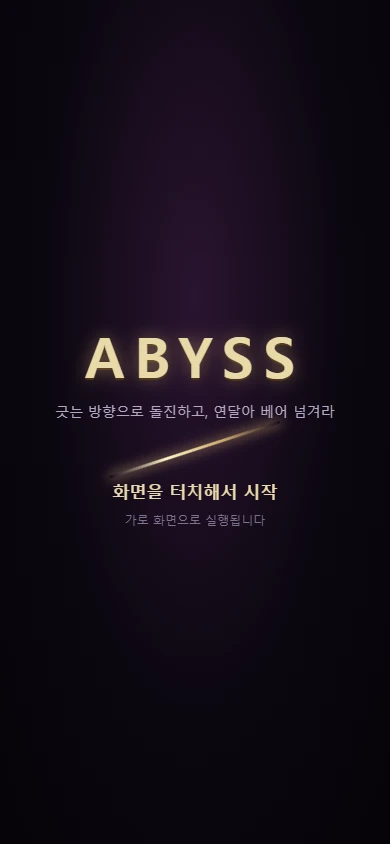
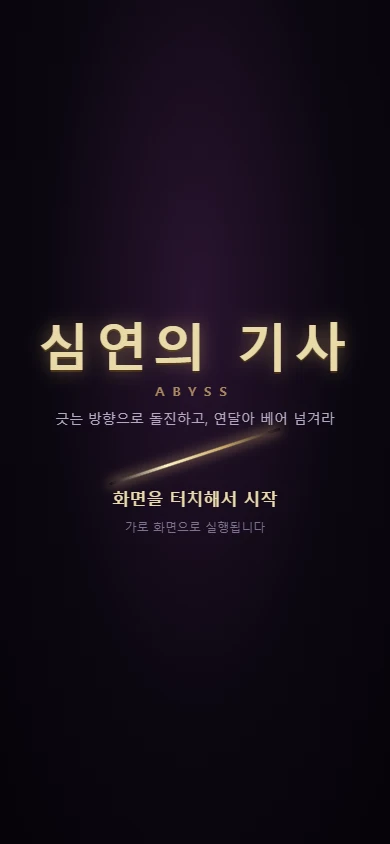
배포 (abd8dcc)

Changed region(s): [[0.0923, 0.3697, 0.8923, 0.6469]]

diff --git a/games.js b/games.js
@@ -58,7 +58,7 @@ var GAMES = [
   },
   {
     id: 'abyss',
-    title: 'ABYSS',
+    title: '심연의 기사',
     pitch: '손가락으로 그은 방향의 적들 사이를 돌진하며 연달아 베어 넘기는 다크 판타지 액션',
     goal: '연쇄 콤보로 최대한 많이 처치',
     rules: ['화면을 그으면 그 방향으로 즉시 꺾어 돌진', '그을 때마다 돌진·연쇄 공격, 평소엔 가까운 적 자동 베기', '오른쪽 아래 버튼으로 특수 공격 3종'],
